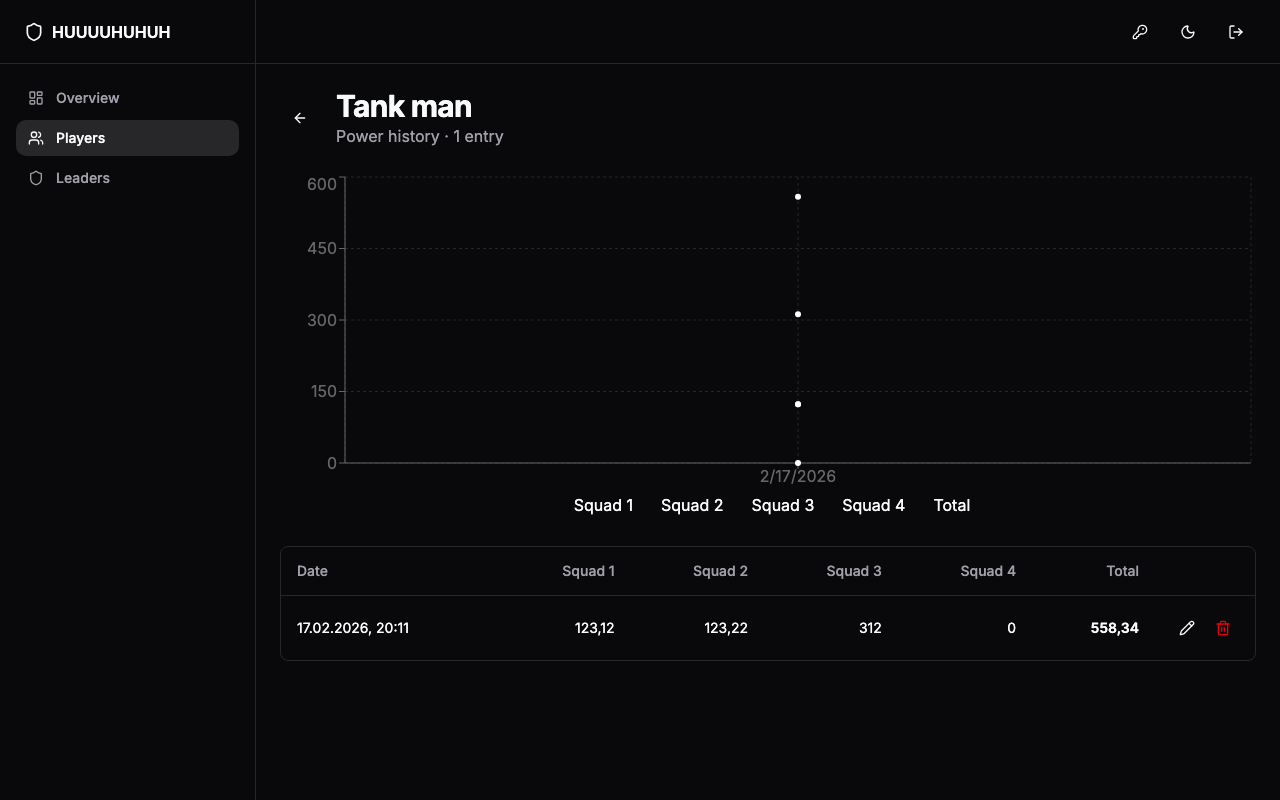
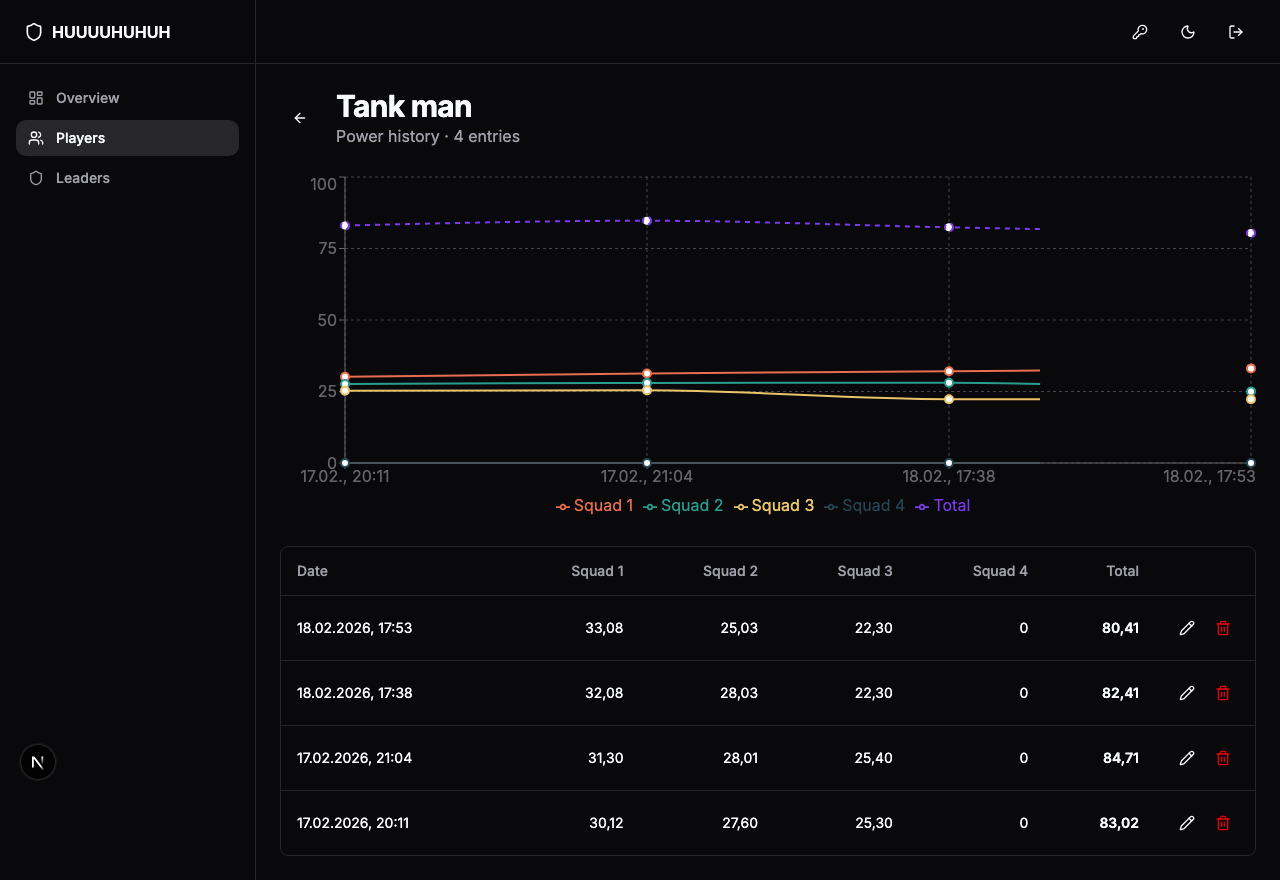
Update user guide, README, and history screenshot
Refresh history screenshot with improved chart (colored lines, visible
dots, date+time x-axis). Document legend toggle and unique player name
enforcement. Update migration list to 007 in README.

diff --git a/README.md b/README.md
@@ -14,6 +14,8 @@ Track hero squad power levels for your Last War alliance. Leaders manage players
 - **History & charts** — track power trends over time per player
 - **Leader management** — invite co-leaders, transfer R5, reset passwords
 - **Edit/delete submissions** — leaders can correct or remove any entry
+- **Interactive chart** — click legend items to show/hide individual squad lines
+- **Unique player names** — duplicate names within an alliance are prevented
 - **Dark mode** — toggle between light and dark themes
 - **German locale** — supports comma as decimal separator (e.g. 32,12)
 - **Mobile-friendly** — responsive sidebar with sheet navigation on mobile
@@ -55,6 +57,7 @@ For existing installations, also run these additional migrations:
 1. `supabase/migrations/004_leaders_username.sql` — Username denormalization
 2. `supabase/migrations/005_alliance_leader_policies.sql` — Alliance/leader update policies
 3. `supabase/migrations/006_power_entries_update_delete.sql` — Entry edit/delete policies
+4. `supabase/migrations/007_unique_player_name.sql` — Unique player names per alliance (remove duplicates first)
 
 ### 4. Configure Supabase Auth
 
@@ -110,5 +113,5 @@ components/
   register/            # Player self-registration form
   ui/                  # shadcn/ui primitives
 supabase/
-  migrations/          # SQL migration files (001-006)
+  migrations/          # SQL migration files (001-007)
 ```

diff --git a/USER_GUIDE.md b/USER_GUIDE.md
@@ -53,6 +53,8 @@ Navigate to **Players** in the sidebar.
 3. Click **Add Player**
 4. The player appears in the table with a unique submission link
 
+Player names must be unique within an alliance (case-insensitive). An error is shown if the name is already taken.
+
 ### Player Self-Registration
 
 Instead of adding players one by one, you can share a registration link:
@@ -112,6 +114,7 @@ Leaders can edit or delete any submission regardless of age.
 
 1. From the **Dashboard**, click the **clock icon** next to a player
 2. The history page shows a **chart** of power trends and a **table** of all submissions
+3. Click any item in the **chart legend** to show or hide that squad's line
 
 ### Editing a Submission
 
